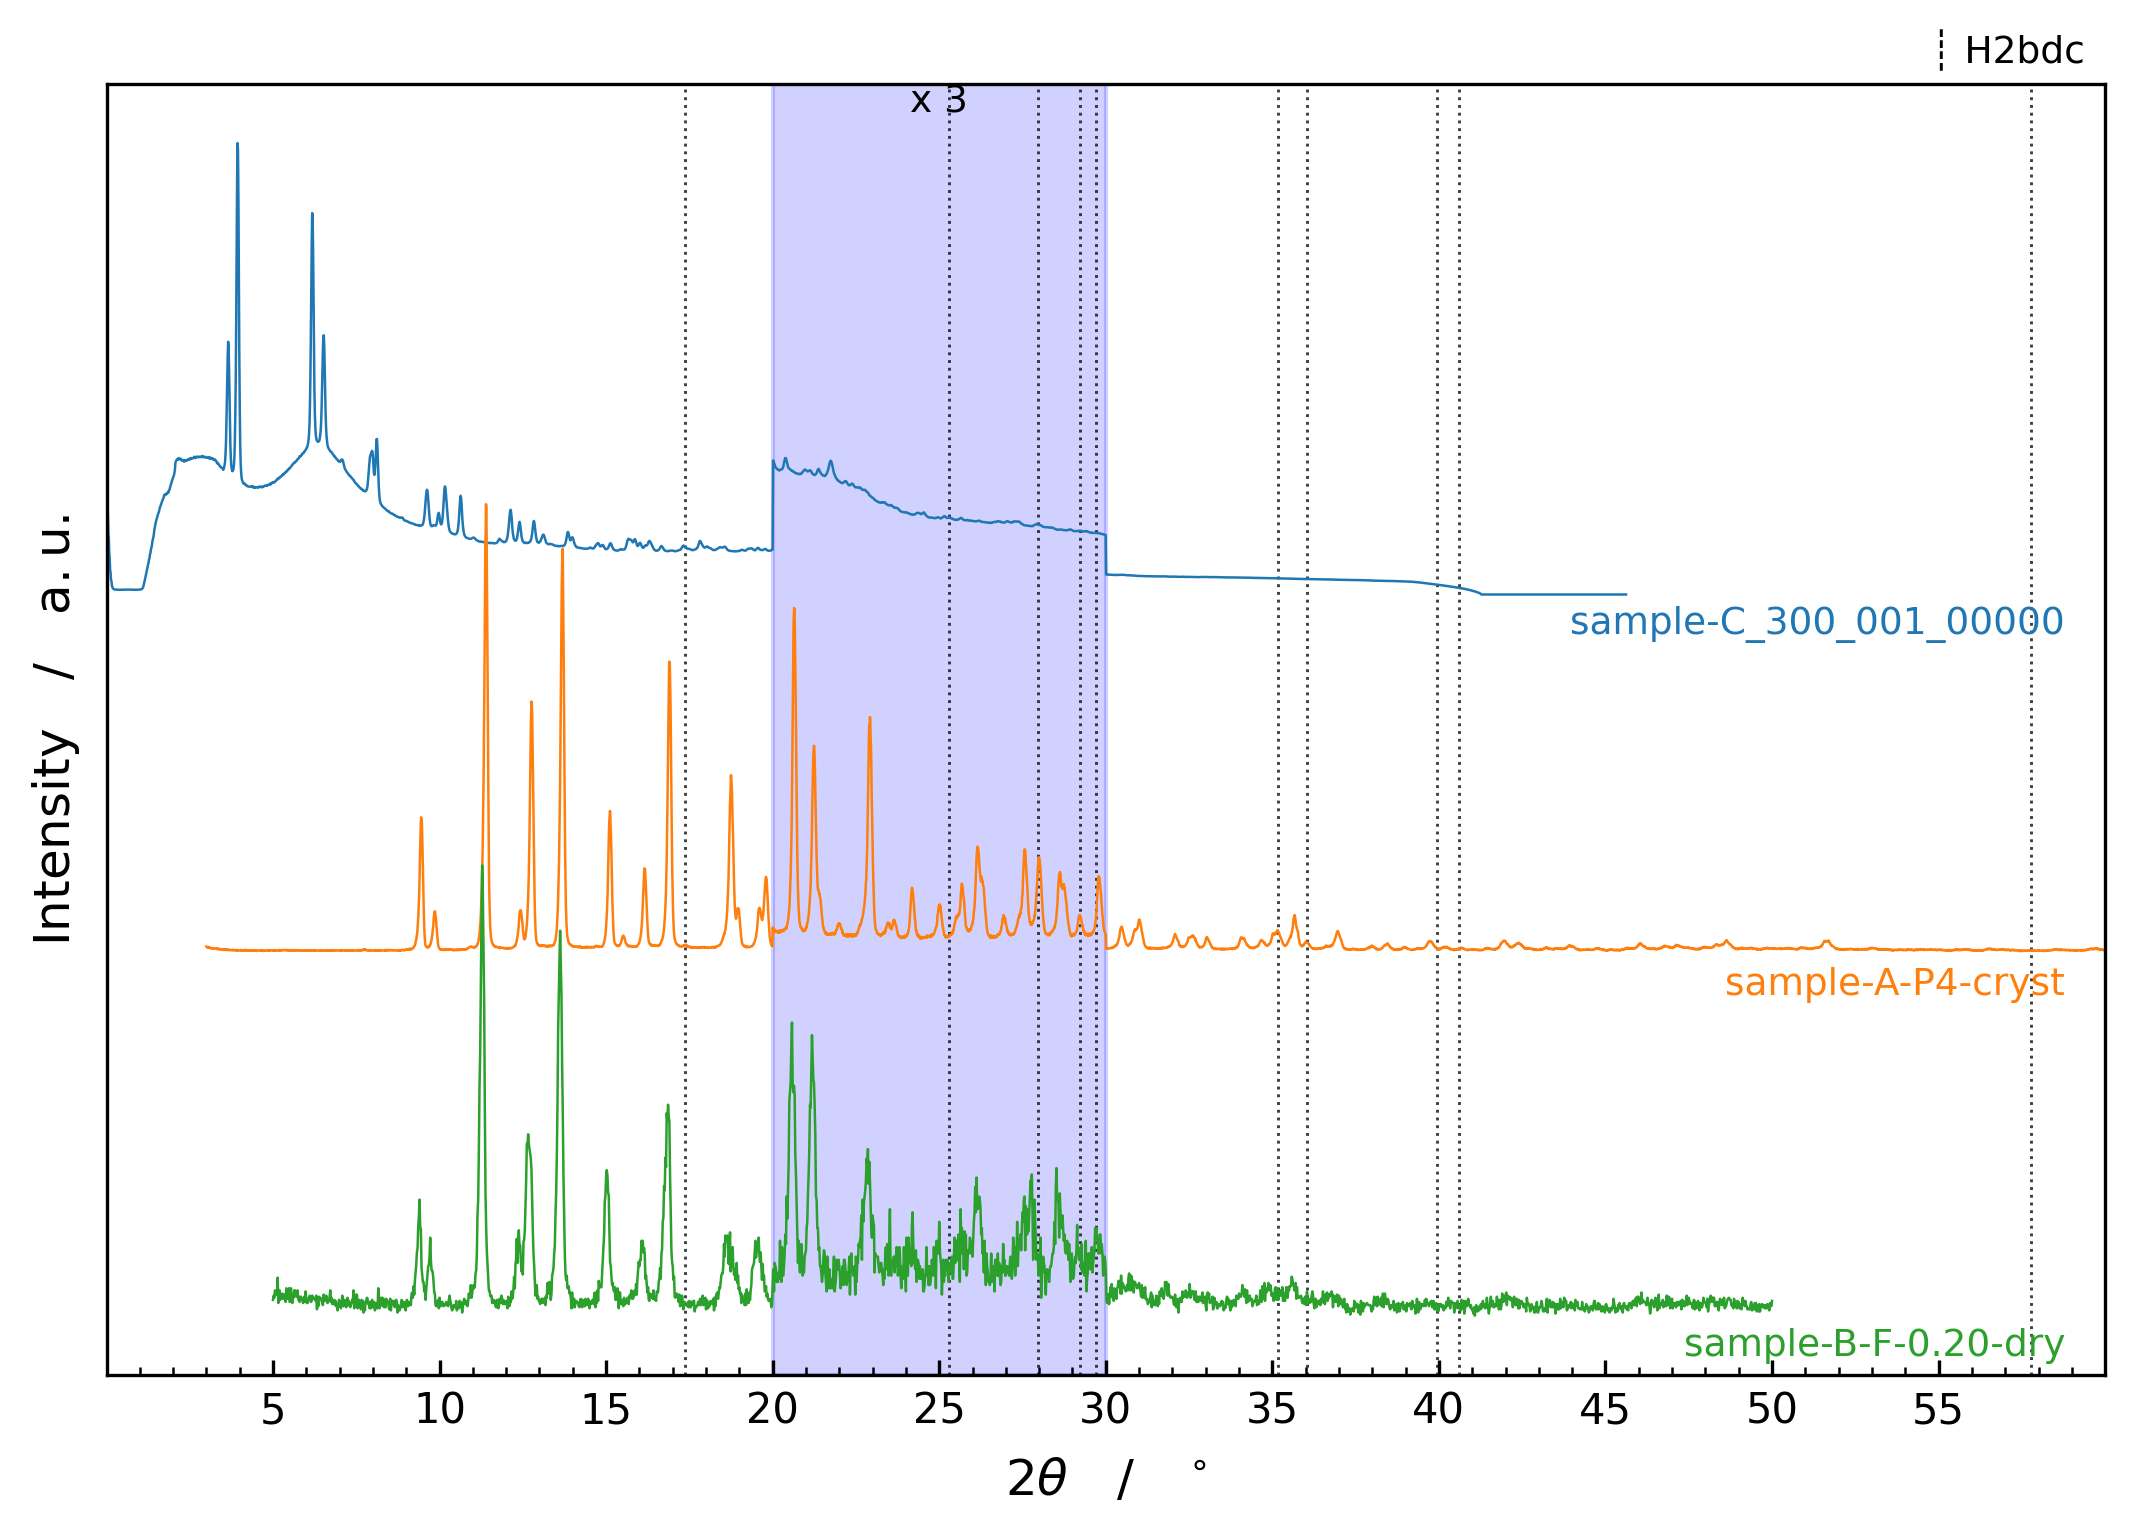
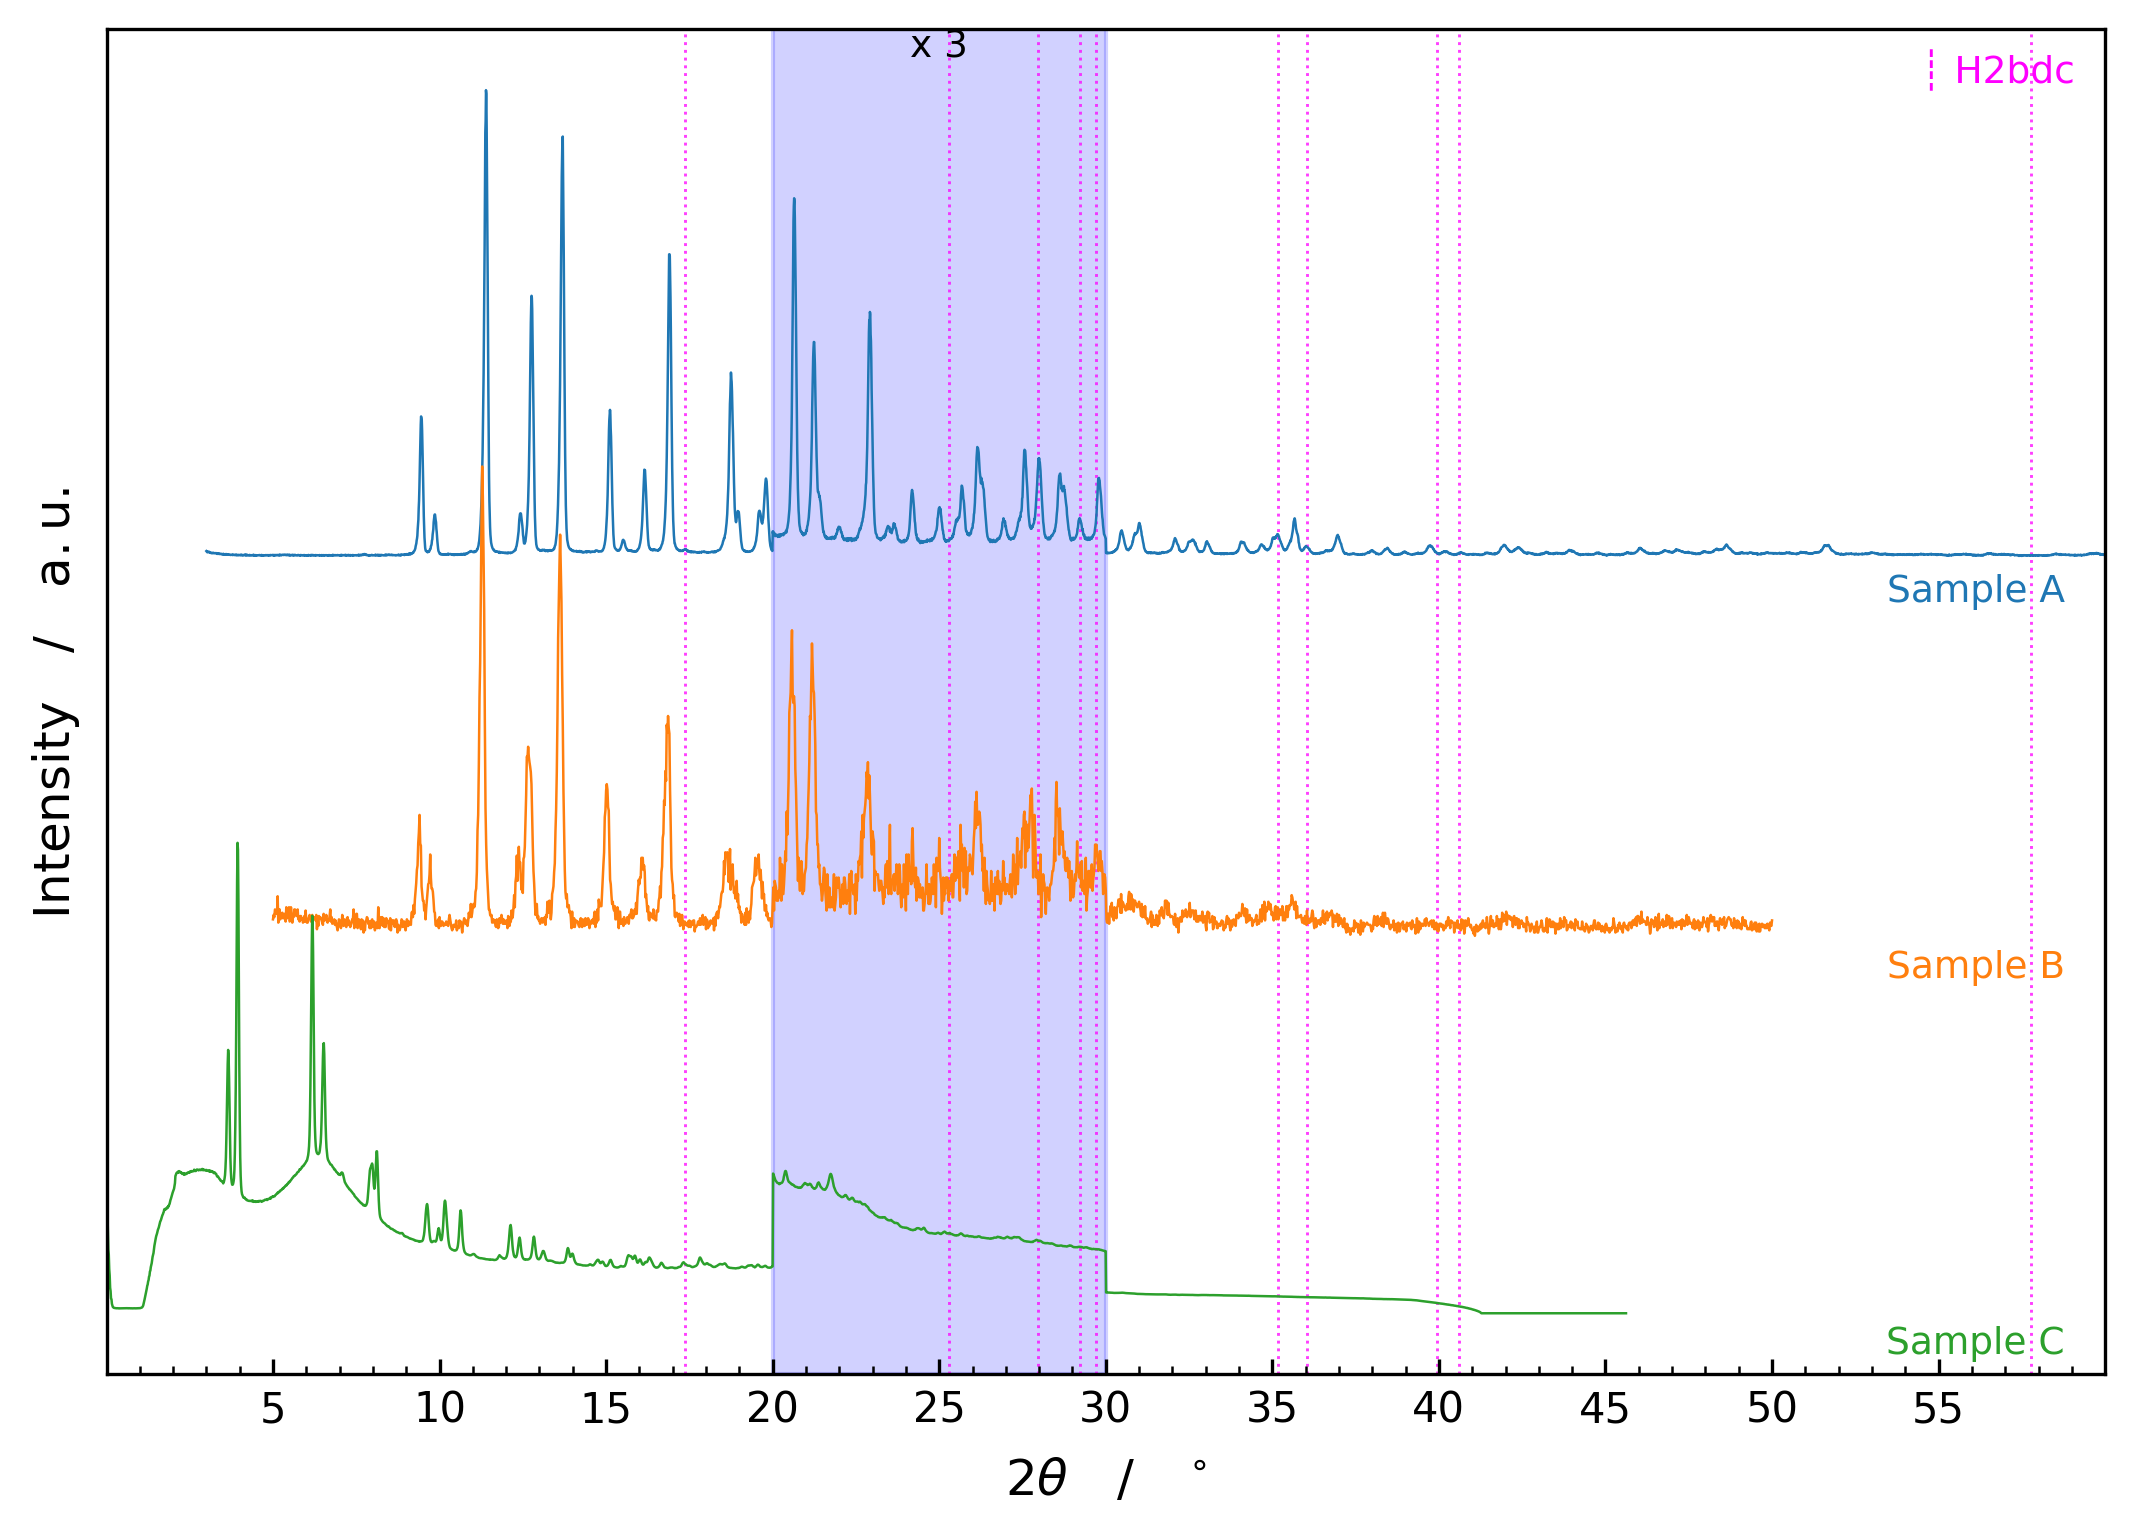
Add --labels/--order, move reflection labels inside axes, recolour markers
- --labels: per-trace labels in input order (_ keeps the filename stem)
- --order: reorder the stack top-to-bottom by input index, validated as a
  permutation with graceful fallback; labels and colours travel with their
  source file through the reorder
- reflection set labels now sit just inside the top-right corner instead of
  floating above the frame
- reflection default palette changed from shades of gray (indistinguishable at
  thin dotted width) to distinct hues disjoint from the trace colours
- regenerate example screenshot with anonymized trace labels
- sync README CLI reference, feature list, recipe block, and project layout

diff --git a/pxrd_quickplot.py b/pxrd_quickplot.py
@@ -52,21 +52,25 @@ SETTINGS = {
 	'label_y_pad_frac': 0.01,    # vertical nudge above each trace's baseline, as a fraction of data range.
 	'broadening': 0.1,           # Lorentzian FWHM (in 2theta degrees) applied to simulated CIF patterns.
 
-	# Trace colors. Black and gray are deliberately excluded so they don't clash
-	# with reflection marker lines (which are drawn in shades of black/gray).
+	# Trace colors. The reflection marker palette is kept disjoint from this
+	# list so dotted reflection lines never read as a data trace.
 	'trace_color_cycle': ['tab:blue', 'tab:orange', 'tab:green', 'tab:red',
 	                      'tab:purple', 'tab:brown', 'tab:pink',
 	                      'tab:olive', 'tab:cyan'],
 
 	# Default color cycle for reflection marker sets when --reflections is used
-	# without an explicit color. Different shades of black/gray keep multiple
-	# reflection sets visually distinct without competing with the data colors.
-	'reflection_color_cycle': ['black', '#444444', '#777777', '#aaaaaa'],
+	# without an explicit color. Distinct saturated hues that are NOT in
+	# `trace_color_cycle`, so reflection lines never read as a data trace.
+	# (At a thin dotted line width, shades of gray are indistinguishable from
+	# each other and from black — so we use clearly different colours instead.)
+	'reflection_color_cycle': ['black', 'magenta', 'teal', 'goldenrod', 'darkviolet'],
 	'reflection_linestyle': ':',
 	'reflection_linewidth': 0.7,
 	'reflection_alpha': 0.75,
 	'reflection_label_font_size': 9,
 	'reflection_label_marker': '┊ ',  # ┊ — visual hint at a dotted vertical
+	'reflection_label_inset': 0.015,  # gap from the top/right axes edges (axes-fraction)
+	'reflection_label_step': 0.045,   # vertical spacing between stacked set labels (axes-fraction)
 }
 
 
@@ -108,14 +112,19 @@ OVERRIDES = {
 	# Per-trace labels, aligned with `inputs`. None = use filename stem.
 	'trace_labels': None,            # e.g. ['Sample A', 'Sample B', 'Reference']
 
+	# Stacking order, top-to-bottom, as input indices. The value at display
+	# position i is the input index drawn there. e.g. [0, 2, 1, 3] keeps input
+	# 0 on top, then draws inputs 2, 1, 3 below it. None = natural input order.
+	'order': None,                   # e.g. [0, 2, 1, 3]
+
 	# ---- overlays ----
 	# Highlight bands as a Python list of tuples (a, b, multiplier, colour).
 	# Mirrors the --highlights syntax. colour may be None for the default red.
 	'highlights': None,              # e.g. [(20, 30, 3, 'blue'), (35, 45, 5, None)]
 
 	# Reflection markers, list of (cif_name, n_top, colour). colour may be None
-	# for the default gray cycle.
-	'reflections': None,             # e.g. [('H2bdc', 10, 'gray'), ('Other', 5, '#444')]
+	# to draw from the default reflection palette.
+	'reflections': None,             # e.g. [('H2bdc', 10, 'magenta'), ('Other', 5, 'teal')]
 
 	# ---- axes / output ----
 	'x_range':   None,               # e.g. (5, 50)
@@ -153,8 +162,15 @@ parser.add_argument('-r', '--reflections', default=None, type=str,
                     help='Overlay reflection markers from CIFs as fine vertical dotted '
                          'lines. Format: "(name,N,color),(name,N,color),...". '
                          'N (count of strongest reflections) defaults to 10; color defaults '
-                         'to a shade of gray. Bare CIF names resolve against CIF_LOC. '
-                         'Useful for highlighting suspected impurity phases.')
+                         'to a distinct hue not used by the data traces. Bare CIF names '
+                         'resolve against CIF_LOC. Useful for highlighting impurity phases.')
+parser.add_argument('--labels', nargs='+', default=None,
+                    help='Per-trace labels, in input order. Use _ (a single underscore) '
+                         'in a slot to keep that trace\'s filename stem.')
+parser.add_argument('--order', default=None, type=str,
+                    help='Reorder the stack top-to-bottom by input index. The i-th value '
+                         'is the input index drawn at position i. e.g. "0,2,1,3" keeps '
+                         'input 0 on top, then draws inputs 2, 1, 3 below it.')
 args = parser.parse_args()
 
 
@@ -482,11 +498,42 @@ def apply_highlights(ax, traces, baselines, highlights):
 
 
 # ==========================================
+# STACK ORDERING (--order)
+# ==========================================
+
+def parse_order(spec):
+	"""Parse "0,2,1,3" (commas and/or whitespace) into [0, 2, 1, 3].
+
+	Returns the list of ints, or None on a parse error."""
+	if not spec:
+		return None
+	try:
+		return [int(tok) for tok in re.split(r'[,\s]+', spec.strip()) if tok]
+	except ValueError:
+		print(f'[!] --order: could not parse "{spec}" as integers; ignoring.')
+		return None
+
+
+def validate_order(order, n):
+	"""Ensure `order` is a permutation of range(n).
+
+	Returns the order list, or None if it isn't a valid permutation (in which
+	case a warning is printed and the caller should fall back to natural order)."""
+	if order is None:
+		return None
+	if sorted(order) != list(range(n)):
+		print(f'[!] order {list(order)} is not a permutation of 0..{n - 1} '
+		      f'({n} traces read); keeping natural order.')
+		return None
+	return list(order)
+
+
+# ==========================================
 # REFLECTION MARKERS (--reflections)
 # ==========================================
 
 def parse_reflections(spec):
-	"""Parse e.g. "(MyCIF,10,gray),(Other.cif,5)" → [(name, n_top, color_or_None), ...]."""
+	"""Parse e.g. "(MyCIF,10,magenta),(Other.cif,5)" → [(name, n_top, color_or_None), ...]."""
 	if not spec:
 		return []
 	out = []
@@ -557,7 +604,7 @@ def simulate_reflections(cif_path, n_top, two_theta_range):
 
 def draw_reflection_lines(ax, ref_sets):
 	"""Draw fine vertical dotted lines for each reflection set and add a
-	stacked label legend just above the axes top-right corner."""
+	stacked label legend just inside the axes top-right corner."""
 	if not ref_sets:
 		return
 	for _, positions, color in ref_sets:
@@ -568,15 +615,19 @@ def draw_reflection_lines(ax, ref_sets):
 			           linewidth=SETTINGS['reflection_linewidth'],
 			           alpha=SETTINGS['reflection_alpha'],
 			           zorder=1)
-	# Stacked labels above the axes top edge. The first set sits closest to the
-	# axes; subsequent sets stack upward.
+	# Stacked labels just INSIDE the top-right corner so they stay within the
+	# plotting box. The first set sits at the top; subsequent sets stack
+	# downward. The top-right interior of a stacked PXRD is the topmost trace's
+	# high-angle tail, which is normally flat, so labels rarely collide with data.
+	pad = SETTINGS['reflection_label_inset']
+	step = SETTINGS['reflection_label_step']
 	for i, (label, _pos, color) in enumerate(ref_sets):
-		y = 1.01 + i * 0.035
-		ax.text(0.99, y,
+		y = (1.0 - pad) - i * step
+		ax.text(1.0 - pad, y,
 		        SETTINGS['reflection_label_marker'] + label,
 		        transform=ax.transAxes,
 		        color=color,
-		        ha='right', va='bottom',
+		        ha='right', va='top',
 		        fontsize=SETTINGS['reflection_label_font_size'])
 
 
@@ -718,6 +769,41 @@ def main():
 		print('[-] Nothing read successfully.')
 		return 1
 
+	# The next three steps all operate in INPUT order (i.e. aligned with -i /
+	# OVERRIDES['inputs']), so labels and colours stay attached to their source
+	# file. Reordering is applied last and permutes everything together — so the
+	# user supplies --labels / --colors / --order all in the same input order.
+
+	# --- per-trace labels: OVERRIDES['trace_labels'] wins over --labels. ---
+	# A slot value of None or '_' keeps that trace's filename-stem label.
+	label_override = OVERRIDES.get('trace_labels') or args.labels
+	if label_override:
+		traces = [((label_override[i] if i < len(label_override)
+		            and label_override[i] not in (None, '_') else lbl), x, y)
+		          for i, (lbl, x, y) in enumerate(traces)]
+
+	# --- per-trace colours: OVERRIDES['trace_colors'] wins over default cycle. ---
+	# Computed here (input order) so a colour stays with its trace through a
+	# reorder. The trace cycle is disjoint from the reflection palette so the
+	# two never collide.
+	color_cycle = SETTINGS['trace_color_cycle']
+	color_override = OVERRIDES.get('trace_colors') or []
+	trace_colors = [color_override[i] if i < len(color_override) and color_override[i]
+	                else color_cycle[i % len(color_cycle)]
+	                for i in range(len(traces))]
+
+	# --- reorder the stack top-to-bottom: OVERRIDES['order'] wins over --order. ---
+	# Indices refer to successfully-read traces in input order. The value at
+	# position i is the input index drawn at display position i.
+	order = OVERRIDES.get('order')
+	if order is None and args.order:
+		order = parse_order(args.order)
+	order = validate_order(order, len(traces))
+	if order is not None:
+		traces = [traces[i] for i in order]
+		trace_colors = [trace_colors[i] for i in order]
+		vprint(f'[+] Stack order (top->bottom): {order}')
+
 	traces = normalize_traces(traces)
 
 	# Only stack if more than one trace and --stack is set; for a single trace
@@ -742,23 +828,7 @@ def main():
 		highlights = parse_highlights(args.highlights)
 	traces = apply_highlights(ax, traces, baselines, highlights)
 
-	# Optional per-trace label override: positional, aligned with input order.
-	if OVERRIDES.get('trace_labels'):
-		label_override = OVERRIDES['trace_labels']
-		traces = [(label_override[i] if i < len(label_override) and label_override[i] else lbl,
-		           x, y) for i, (lbl, x, y) in enumerate(traces)]
-
-	# Plot each trace. We use an explicit color cycle that excludes black/gray
-	# so reflection markers (drawn later in shades of gray) remain visually
-	# distinct from the data. Per-trace OVERRIDES['trace_colors'] entries take
-	# precedence (use None in a slot to keep the default cycle colour).
-	color_cycle = SETTINGS['trace_color_cycle']
-	color_override = OVERRIDES.get('trace_colors') or []
-	trace_colors = []
-	for i in range(len(traces)):
-		c = color_override[i] if i < len(color_override) and color_override[i] else \
-		    color_cycle[i % len(color_cycle)]
-		trace_colors.append(c)
+	# Plot each trace (colours computed above, aligned through the reorder).
 	for (label, x, y), c in zip(traces, trace_colors):
 		ax.plot(x, y, lw=SETTINGS['line_width'], color=c, label=label)
 

diff --git a/README.md b/README.md
@@ -2,7 +2,7 @@
 
 A one-shot script for plotting stacks of powder X-ray diffractograms from the formats a chemistry lab actually produces — Bruker `.brml`, Riet7 `.dat`, plain `.xy / .txt / .csv`, TOPAS-convertible `.raw`, and simulated `.cif` patterns — all on a single axis.
 
-![screenshot of three measured PXRD patterns stacked on one axis with a × 3 highlight band and the top-10 reflections of an H2bdc CIF overlaid as fine dotted vertical lines, plus a colour-coded label above the top-right corner](examples/screenshot.png)
+![screenshot of three measured PXRD patterns stacked on one axis with a × 3 highlight band and the top-10 reflections of an H2bdc CIF overlaid as fine dotted vertical lines, plus a colour-coded label just inside the top-right corner](examples/screenshot.png)
 
 ## Quick start
 
@@ -39,7 +39,7 @@ The `--reflections` argument overlays the strongest simulated peaks of one or mo
 python pxrd_quickplot.py -s -x png -r "(H2bdc,10),(other_phase,5,#aa0000)"
 ```
 
-Each set gets a small colour-coded label above the top-right corner. Bare CIF names resolve against `CIF_LOC` first, then the current directory.
+Each set gets a small colour-coded label just inside the top-right corner of the plot. Bare CIF names resolve against `CIF_LOC` first, then the current directory.
 
 ## CLI reference
 
@@ -49,7 +49,9 @@ Each set gets a small colour-coded label above the top-right corner. Bare CIF na
 | `--stack` | on | Stack all collected patterns on one axis. |
 | `-l`, `--limit_extension EXT ...` | off | Restrict the cwd glob to specific extensions (without the dot). |
 | `-m`, `--highlights "((a,b,N,color),...)"` | off | Zoom-scale 2θ intervals by `N` and shade them. Colour optional. |
-| `-r`, `--reflections "(CIF,N,color),..."` | off | Overlay the N strongest reflections of one or more CIFs as fine dotted vertical lines. `N` defaults to 10, colour to a shade of gray. CIF names resolve against `CIF_LOC` too. |
+| `-r`, `--reflections "(CIF,N,color),..."` | off | Overlay the N strongest reflections of one or more CIFs as fine dotted vertical lines. `N` defaults to 10, colour to a distinct hue not used by the data traces. CIF names resolve against `CIF_LOC` too. |
+| `--labels LABEL ...` | off | Per-trace labels, in input order. Use `_` in a slot to keep that trace's filename stem. |
+| `--order i,j,k,...` | off | Reorder the stack top-to-bottom by input index. The i-th value is the input index drawn at position i; e.g. `0,2,1,3` keeps input 0 on top, then draws inputs 2, 1, 3 below it. |
 | `-t`, `--title [TEXT]` | off | Set a title; `-t` alone auto-generates one from the filenames. |
 | `--size W H` | `7 5` | Plot size in inches. |
 | `-x`, `--extension EXT` | `svg` | Output extension when saving. |
@@ -65,7 +67,8 @@ Each set gets a small colour-coded label above the top-right corner. Bare CIF na
 - **Simulates CIF patterns** with pymatgen's `XRDCalculator`, convolved with a Lorentzian of `--broadening` FWHM (default 0.1°). The 2θ range of the simulated pattern is automatically tied to the global x-range of the measured data so the phases line up.
 - **Normalises and offsets** each pattern (individual normalisation by default; CENTER stacking centred around y=0).
 - **Highlights with multiplications.** `--highlights "((a,b,N,color),...)"` scales each trace's intensity by `N` inside the band `[a, b]`, draws a translucent shaded rectangle, and labels the band `x N` at the top — useful for showing low-intensity features.
-- **Reflection markers from CIFs.** `--reflections "(CIF,N,color),..."` overlays the `N` strongest simulated reflections of one or more crystal structures as fine dotted vertical lines (default `N` = 10, default colour a shade of gray, default trace colour cycle no longer includes black/gray so the markers stay distinct). Each set gets a small colour-coded label above the top-right corner. Handy for flagging suspected impurity phases in a measurement.
+- **Reflection markers from CIFs.** `--reflections "(CIF,N,color),..."` overlays the `N` strongest simulated reflections of one or more crystal structures as fine dotted vertical lines (default `N` = 10, default colours a small palette of distinct hues — `black, magenta, teal, goldenrod, darkviolet` — chosen to differ from the data trace colours). Each set gets a small colour-coded label just inside the top-right corner. Handy for flagging suspected impurity phases in a measurement.
+- **Custom labels and stack order.** `--labels` sets per-trace labels in input order (`_` keeps a trace's filename stem); `--order` rearranges the stack top-to-bottom by input index. Colours stay attached to their source file through a reorder.
 - **Auto-margins.** Y-limits are computed from `ax.dataLim` and padded by configurable top/bottom fractions (5% default) so peaks don't touch the frame.
 - **Robust to bad files.** A file that fails to read prints `[!] Skipping <path>: <reason>` and the rest of the batch carries on. Unrecognised extensions, empty files, corrupt ZIPs, malformed CIFs, etc. are all caught.
 
@@ -89,8 +92,8 @@ pip install numpy matplotlib pymatgen
 ACH-PXRD-Quickplot/
 ├── pxrd_quickplot.py          # the whole program — CLI, readers, plotting
 ├── examples/
-│   ├── sample-A-P4-cryst.brml          # Bruker measurement
-│   ├── sample-B-F-0.20-dry.dat          # Riet7 measurement
+│   ├── sample-A-P4-cryst.brml        # Bruker measurement
+│   ├── sample-B-F-0.20-dry.dat       # Riet7 measurement
 │   ├── sample-C_300_001_00000.xy     # plain two-column data
 │   ├── H2bdc.cif                     # CIF for simulated pattern
 │   └── screenshot.png                # the screenshot used in this README
@@ -108,8 +111,9 @@ OVERRIDES = {
     'inputs':        ['sample_A.xy', 'sample_B.brml', 'phase.cif'],
     'trace_colors':  ['tab:blue', '#cc0000', None],          # None = default cycle
     'trace_labels':  ['Sample A', 'Sample B', 'Reference'],  # None entries = filename stem
+    'order':         [0, 2, 1],                              # stack top->bottom by input index
     'highlights':    [(20, 30, 3, 'blue'), (35, 45, 5, None)],
-    'reflections':   [('H2bdc', 10, 'gray'), ('Other', 5, '#444')],
+    'reflections':   [('H2bdc', 10, 'magenta'), ('Other', 5, 'teal')],
     'x_range':       (5, 50),
     'title':         'sample-A..D amorphous series',
     'figsize':       (10, 6),
@@ -161,11 +165,13 @@ works from any prompt.
 
 **Highlights / multiplications.** Parsed from the `--highlights` string with `re.findall(r'\(([^()]*)\)', spec)`, then for each `(a, b, N, color)` tuple the script multiplies y inside `[a, b]` *around each trace's baseline* (so the multiplication doesn't shift the zero level) and overlays a translucent `axvspan` plus an `x N` label at the top of the axes.
 
-**Reflection markers.** `--reflections` parses with the same tuple-grammar regex. Each `(name, N, color)` triple resolves the CIF (literal path → CIF_LOC → with/without `.cif` extension), runs pymatgen's `XRDCalculator.get_pattern` restricted to the global x-range, sorts the peaks by intensity descending, takes the top `N`, and draws each remaining peak as an `axvline` in the chosen colour with `linestyle=':'`. A small colour-coded label is placed at axes coords `(0.99, 1.01 + i·0.035)` so multiple sets stack upward above the top-right corner. The default trace colour cycle has been shrunk to `tab:blue/orange/green/red/purple/brown/pink/olive/cyan` (no `tab:gray`) so the gray reflection markers always stand out from the data.
+**Reflection markers.** `--reflections` parses with the same tuple-grammar regex. Each `(name, N, color)` triple resolves the CIF (literal path → CIF_LOC → with/without `.cif` extension), runs pymatgen's `XRDCalculator.get_pattern` restricted to the global x-range, sorts the peaks by intensity descending, takes the top `N`, and draws each remaining peak as an `axvline` in the chosen colour with `linestyle=':'`. A small colour-coded label is placed just inside the top-right corner (axes coords `(1 − inset, (1 − inset) − i·step)`, `va='top'`) so multiple sets stack downward inside the plotting box rather than spilling over the top frame. The default reflection palette (`black, magenta, teal, goldenrod, darkviolet`) is kept disjoint from the data trace cycle (`tab:blue/orange/green/red/purple/brown/pink/olive/cyan`) so a dotted reflection line never reads as a data trace. Earlier versions used shades of gray, but at a thin dotted line width those are indistinguishable from each other and from black — distinct hues solve that.
 
 **Y-limits and labels.** After plotting, `ax.dataLim.y0/y1` gives the true extents; **the stacking baselines are also folded in** (`min(baselines)`, `max(baselines)`) so the margin pad always extends below the lowest baseline — important for traces with high amorphous background where `dataLim.y0` sits well above the mathematical baseline that the label is anchored to. Then those bounds are padded by `margin_top` / `margin_bottom` fractions of the resulting range (5% each by default). After labels are placed, the figure is drawn once, each label's bbox is converted to data coords, and the lower y-limit is nudged downward if any label still hangs out — a belt-and-braces check that handles unusual font sizes and figure dimensions. Trace labels themselves sit just *below* each baseline near the right edge — the dead zone of any positive-only PXRD trace — coloured to match the trace.
 
-**OVERRIDES.** A dict at the top of the script holds optional overrides that win over both CLI flags and SETTINGS defaults. `main()` calls `_apply_overrides_to_args()` first to push the simple ones (`title`, `figsize`, `extension`, `silent`) onto the argparse `args` namespace, then reads the structured ones (`inputs`, `trace_colors`, `trace_labels`, `highlights`, `reflections`, `x_range`) directly from `OVERRIDES` at the relevant points in the plotting flow. This means a customised copy of the script is a self-contained plot recipe: `python pxrd_quickplot.py` with no flags reproduces the customised plot.
+**Labels, colours, and ordering.** These are resolved in input order — labels (`--labels` / `OVERRIDES['trace_labels']`, with `_`/`None` meaning "keep the filename stem"), then per-trace colours (`OVERRIDES['trace_colors']` or the default cycle by input index) — so each stays attached to its source file. Only then is the reorder (`--order` / `OVERRIDES['order']`) applied, permuting traces and colours together before `offset_traces` assigns the top-to-bottom baselines. The order list must be a permutation of `0..n-1` over the successfully-read traces; an invalid one warns and falls back to natural order.
+
+**OVERRIDES.** A dict at the top of the script holds optional overrides that win over both CLI flags and SETTINGS defaults. `main()` calls `_apply_overrides_to_args()` first to push the simple ones (`title`, `figsize`, `extension`, `silent`) onto the argparse `args` namespace, then reads the structured ones (`inputs`, `trace_colors`, `trace_labels`, `order`, `highlights`, `reflections`, `x_range`) directly from `OVERRIDES` at the relevant points in the plotting flow. This means a customised copy of the script is a self-contained plot recipe: `python pxrd_quickplot.py` with no flags reproduces the customised plot.
 
 </details>
 